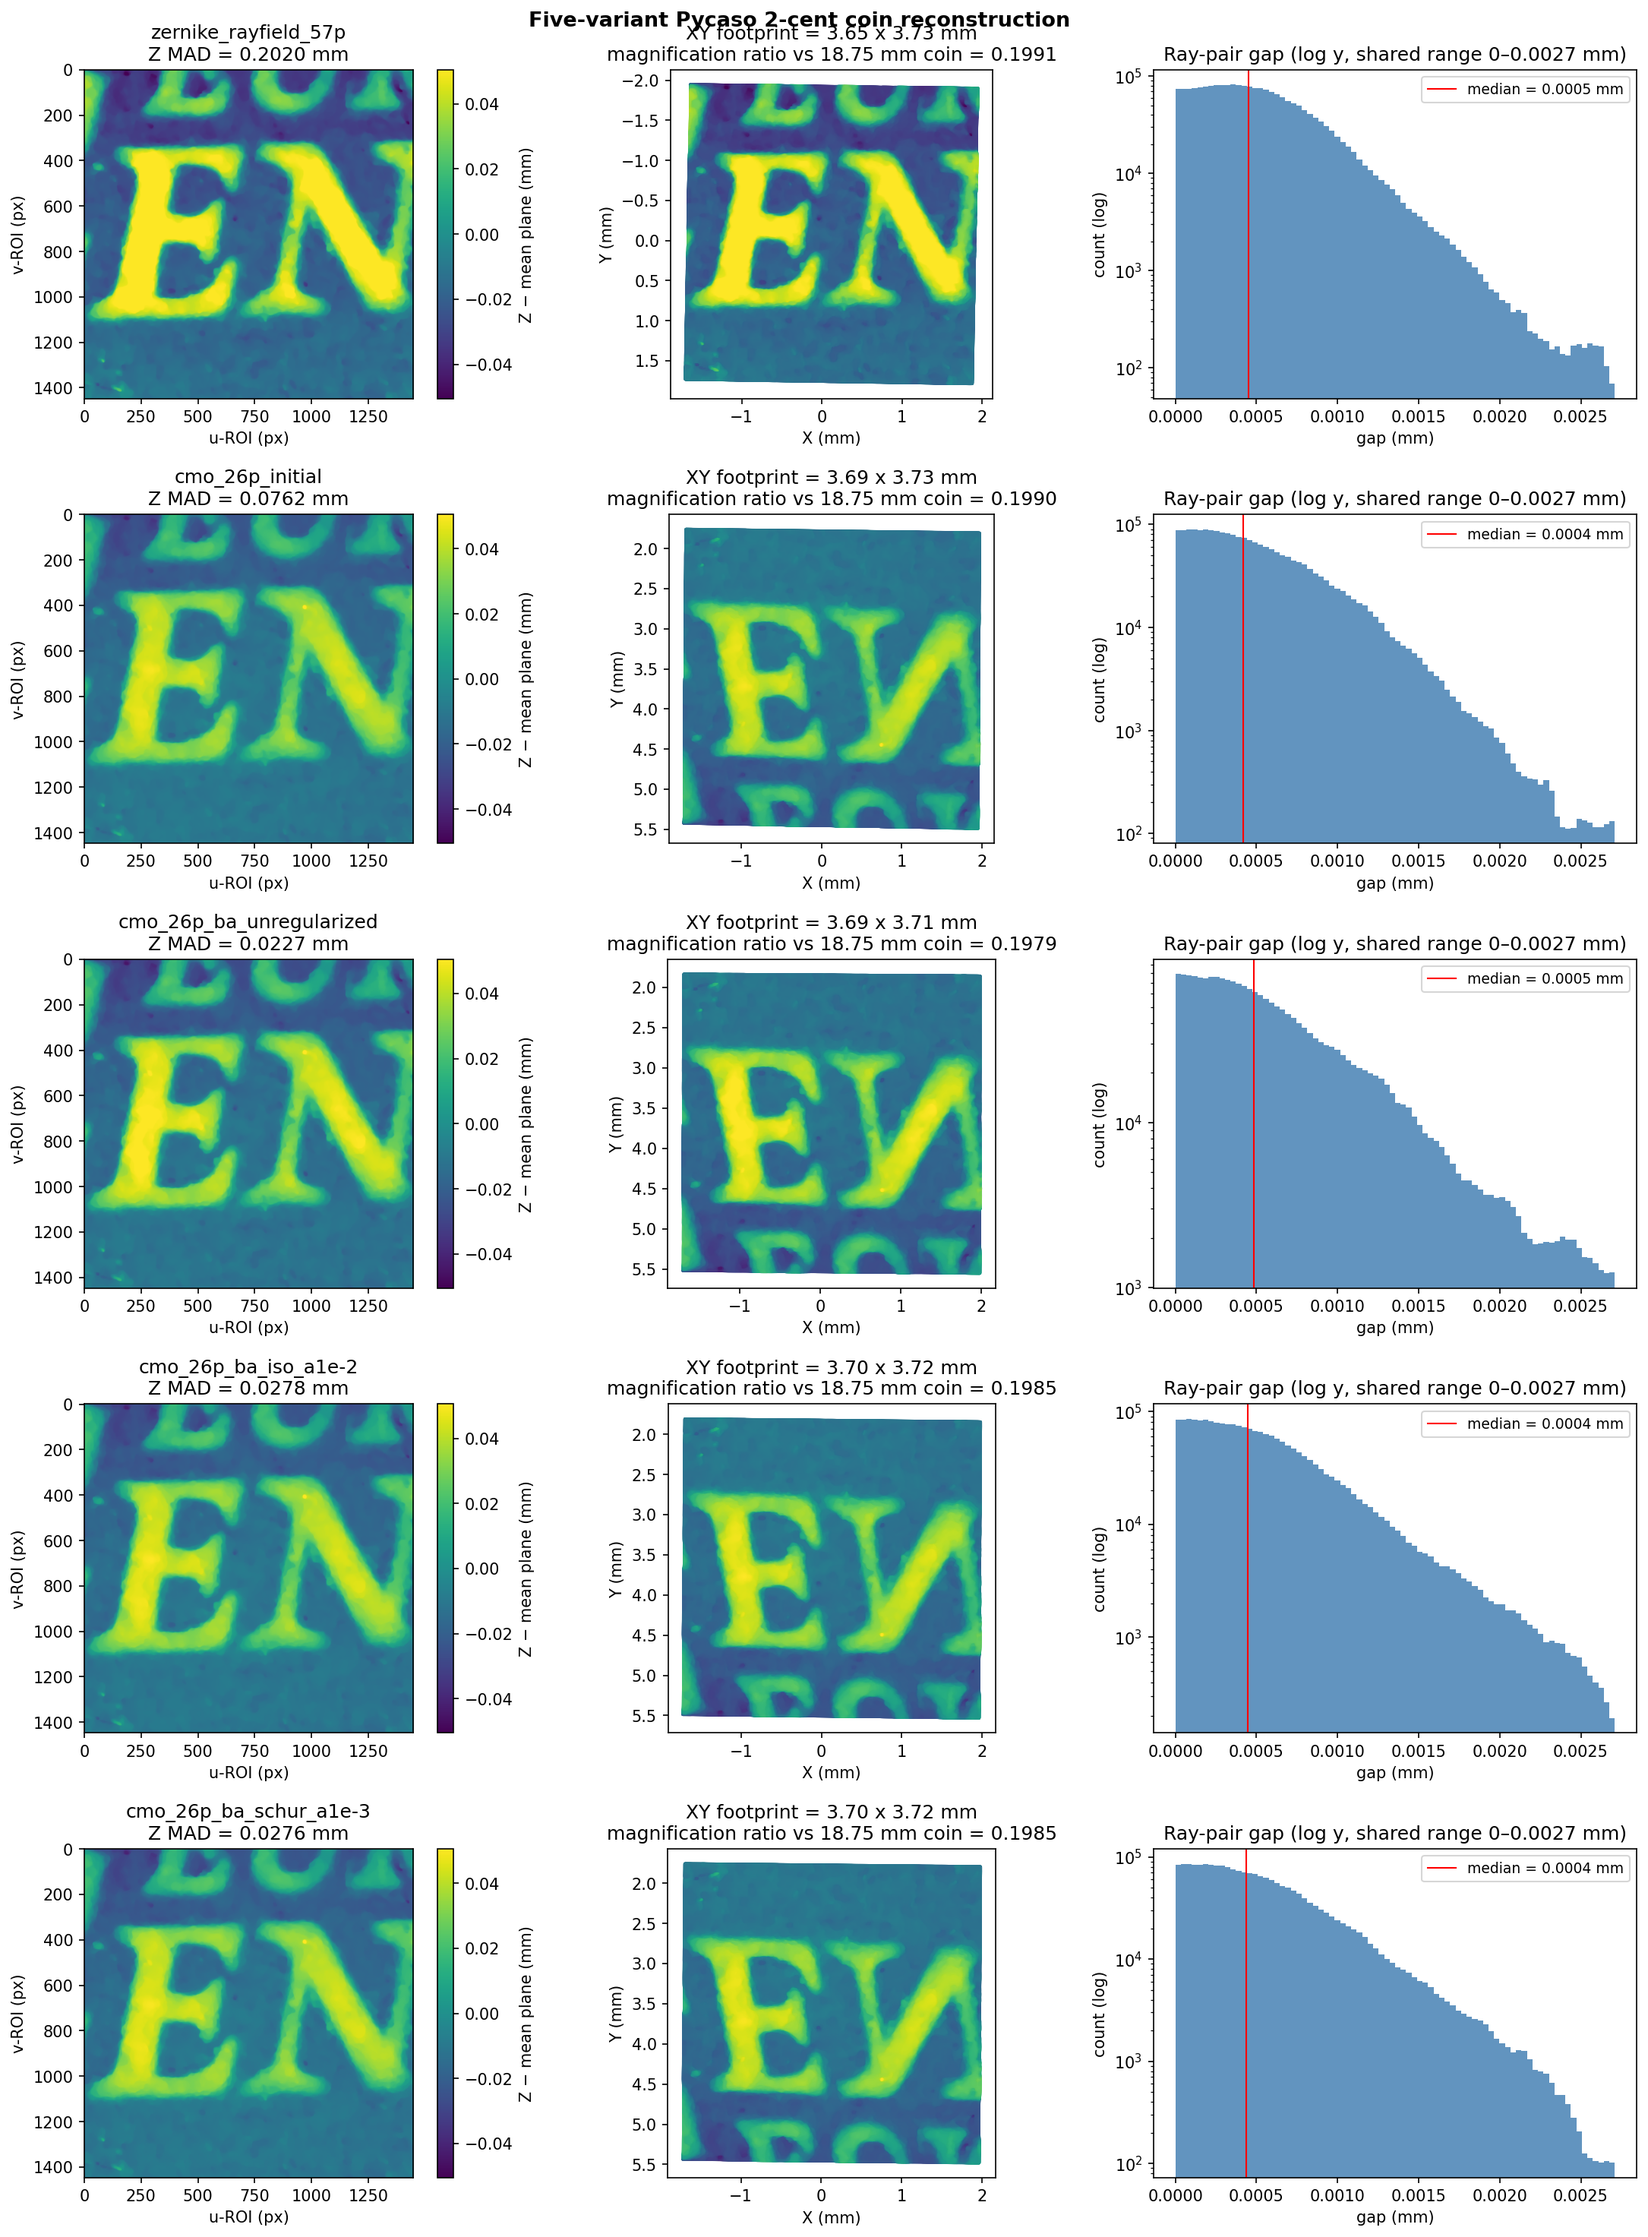
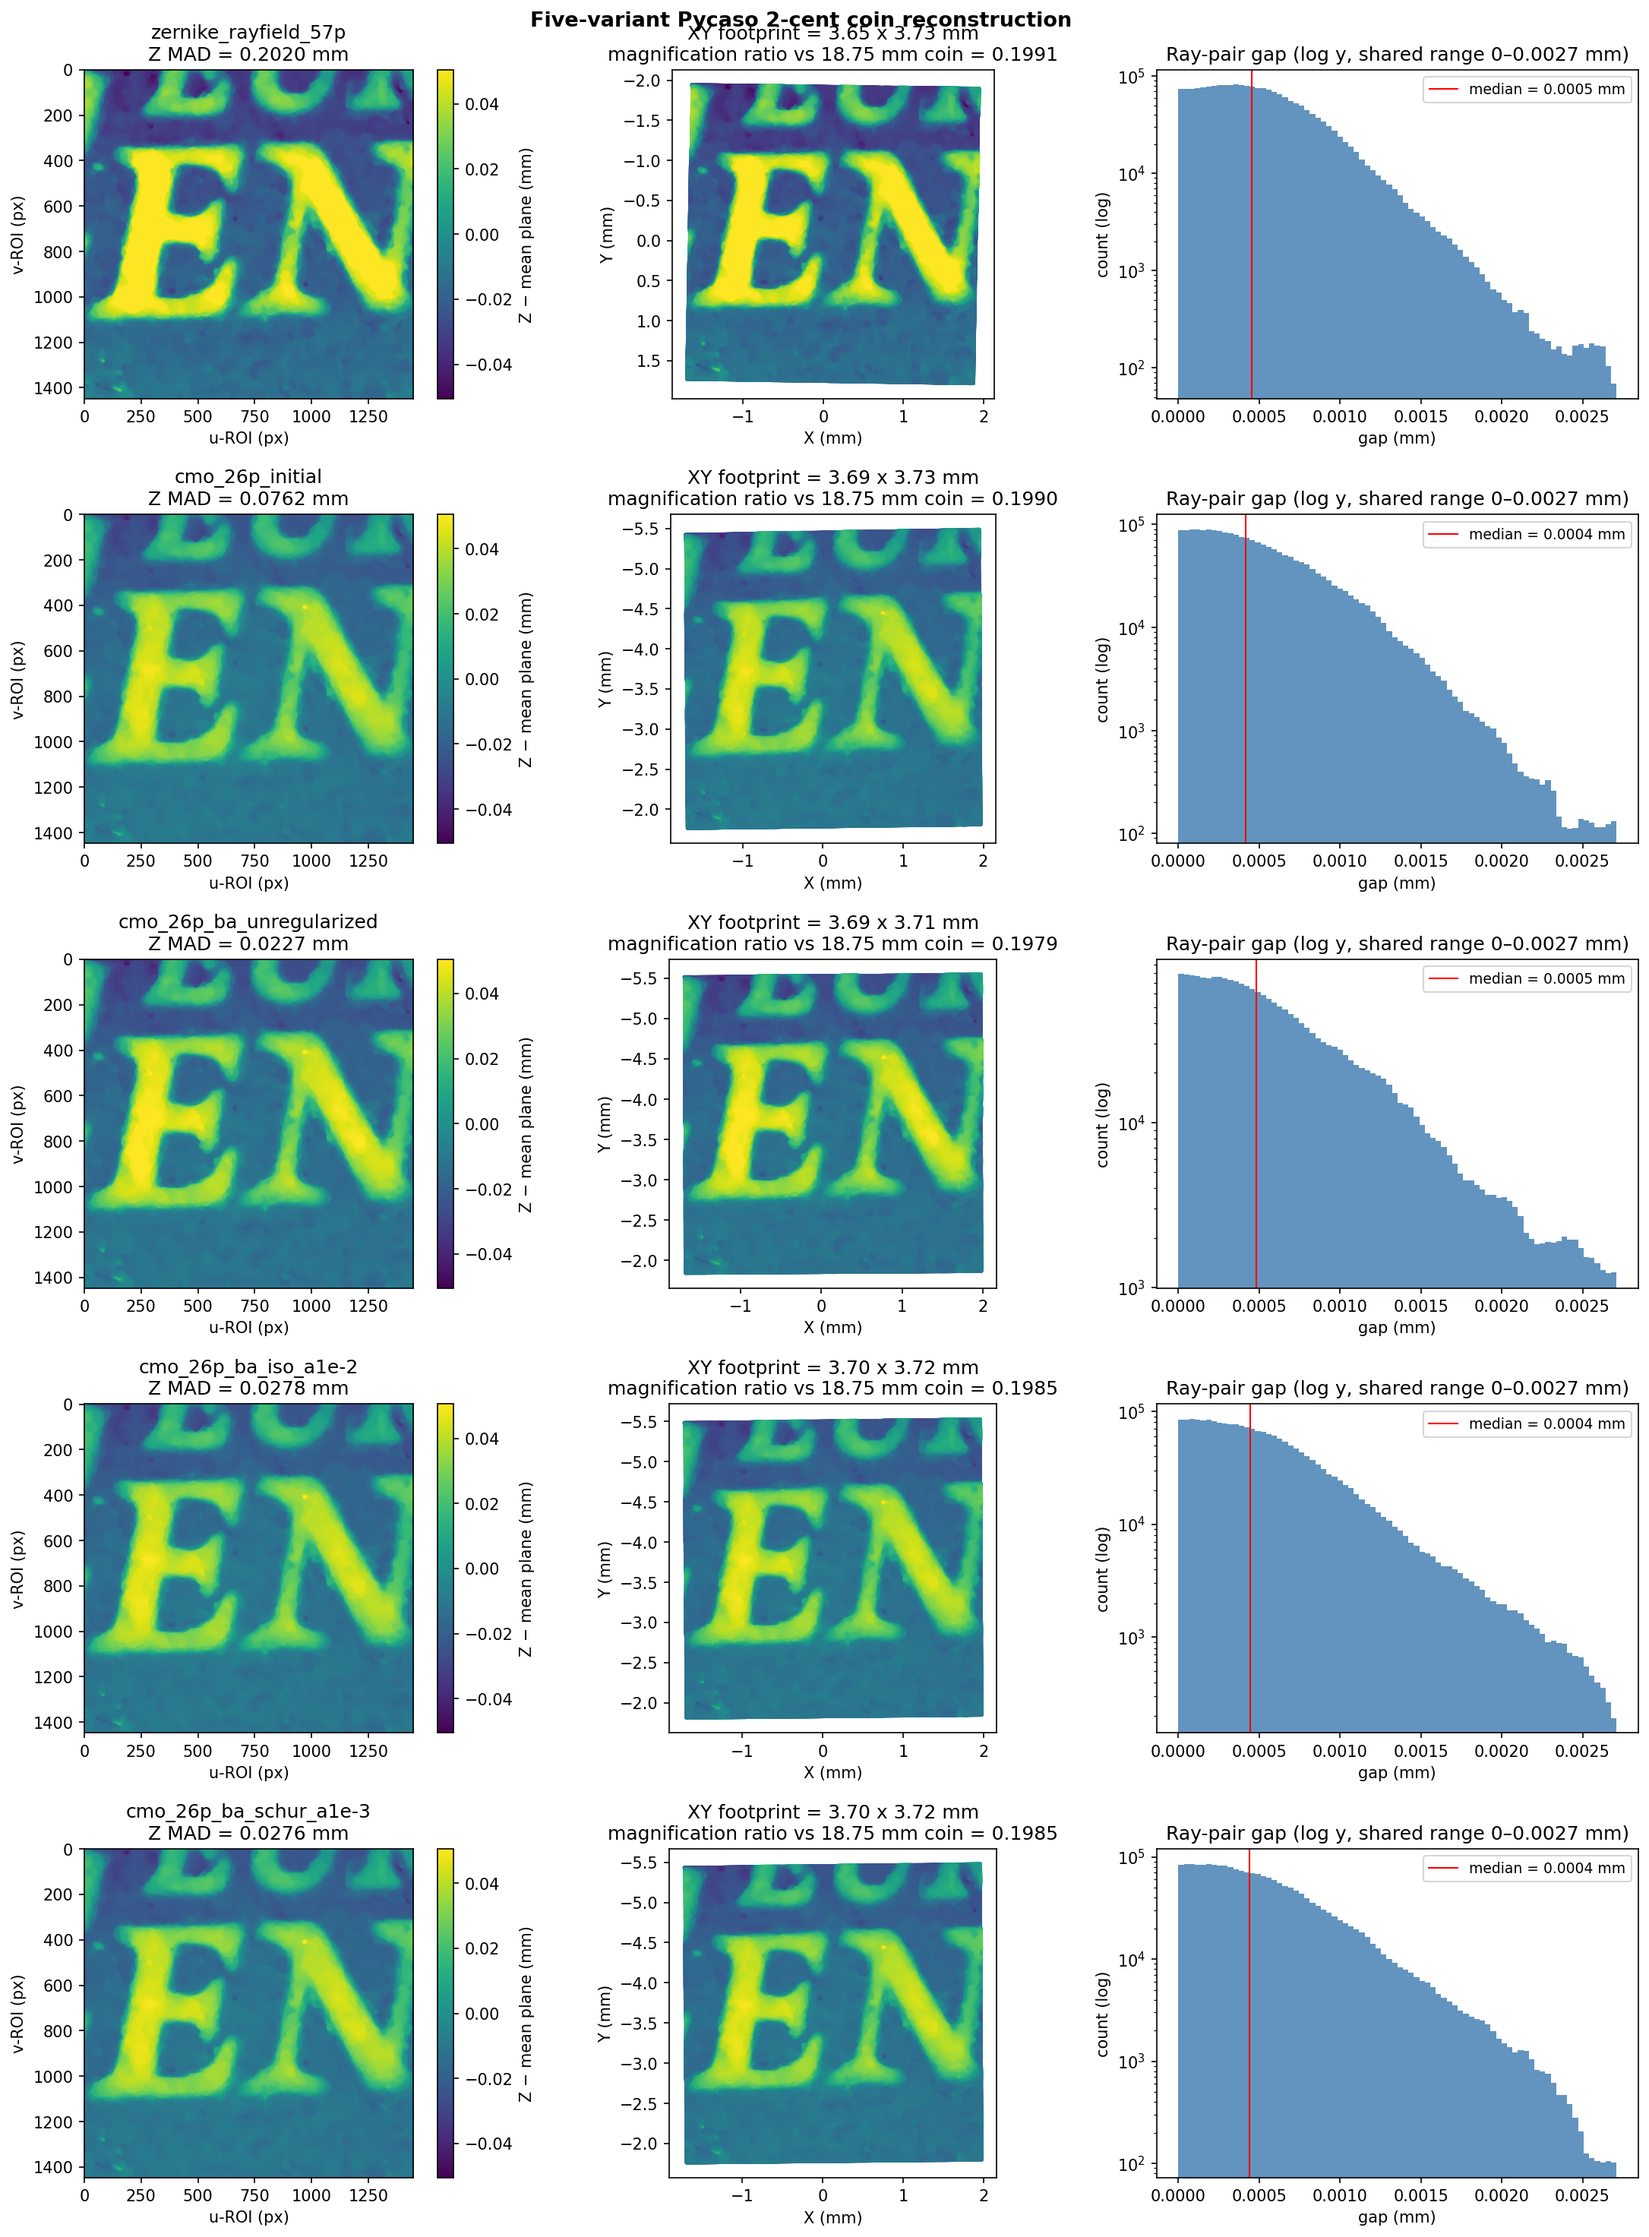
fix(fig11): restore the CMO XY-footprint Y orientation (regression)
The five-variant specimen figure (plot_specimen_grid) scattered every XY
footprint with rec.Y + invert_yaxis. The CMO model carries an inverted v->Y
sign (rho_y, s_y < 0), so the CMO variants' footprints came out Y-mirrored
relative to their v-down Z-maps and to the Zernike reference (the "EN" lettering
appeared upside-down). Flip the Y of the CMO variants only (matching the
documented -Y correction already applied in the rigid-gauge-removal figure); the
Zernike reference needs no flip. All footprints now share the Z-map orientation.

Gates green (ruff src/tests, docstring guard). Builds clean.

diff --git a/src/stereocomplex/optical_ba/specimen.py b/src/stereocomplex/optical_ba/specimen.py
@@ -361,7 +361,13 @@ def plot_specimen_grid(
         fig.colorbar(im, ax=ax_z, label="Z − mean plane (mm)")
 
         ratio = magnification_ratio(rec, nominal_diameter_mm)
-        ax_xy.scatter(rec.X, rec.Y, s=1, c=z_rel[row], cmap="viridis",
+        # The CMO model carries an inverted v->Y sign (rho_y, s_y < 0), so its
+        # XY footprint is Y-mirrored relative to the v-down Z-map. Flip the CMO
+        # variants' Y so every footprint shares the Z-map orientation; the
+        # Zernike reference needs no flip (cf. the documented -Y correction in
+        # examples/notebooks/generate_fig_zernike_cmo_rigid_removed.py).
+        y_sign = -1.0 if "cmo" in rec.variant.lower() else 1.0
+        ax_xy.scatter(rec.X, y_sign * rec.Y, s=1, c=z_rel[row], cmap="viridis",
                       vmin=vmin, vmax=vmax)
         ax_xy.set_aspect("equal")
         ax_xy.invert_yaxis()
